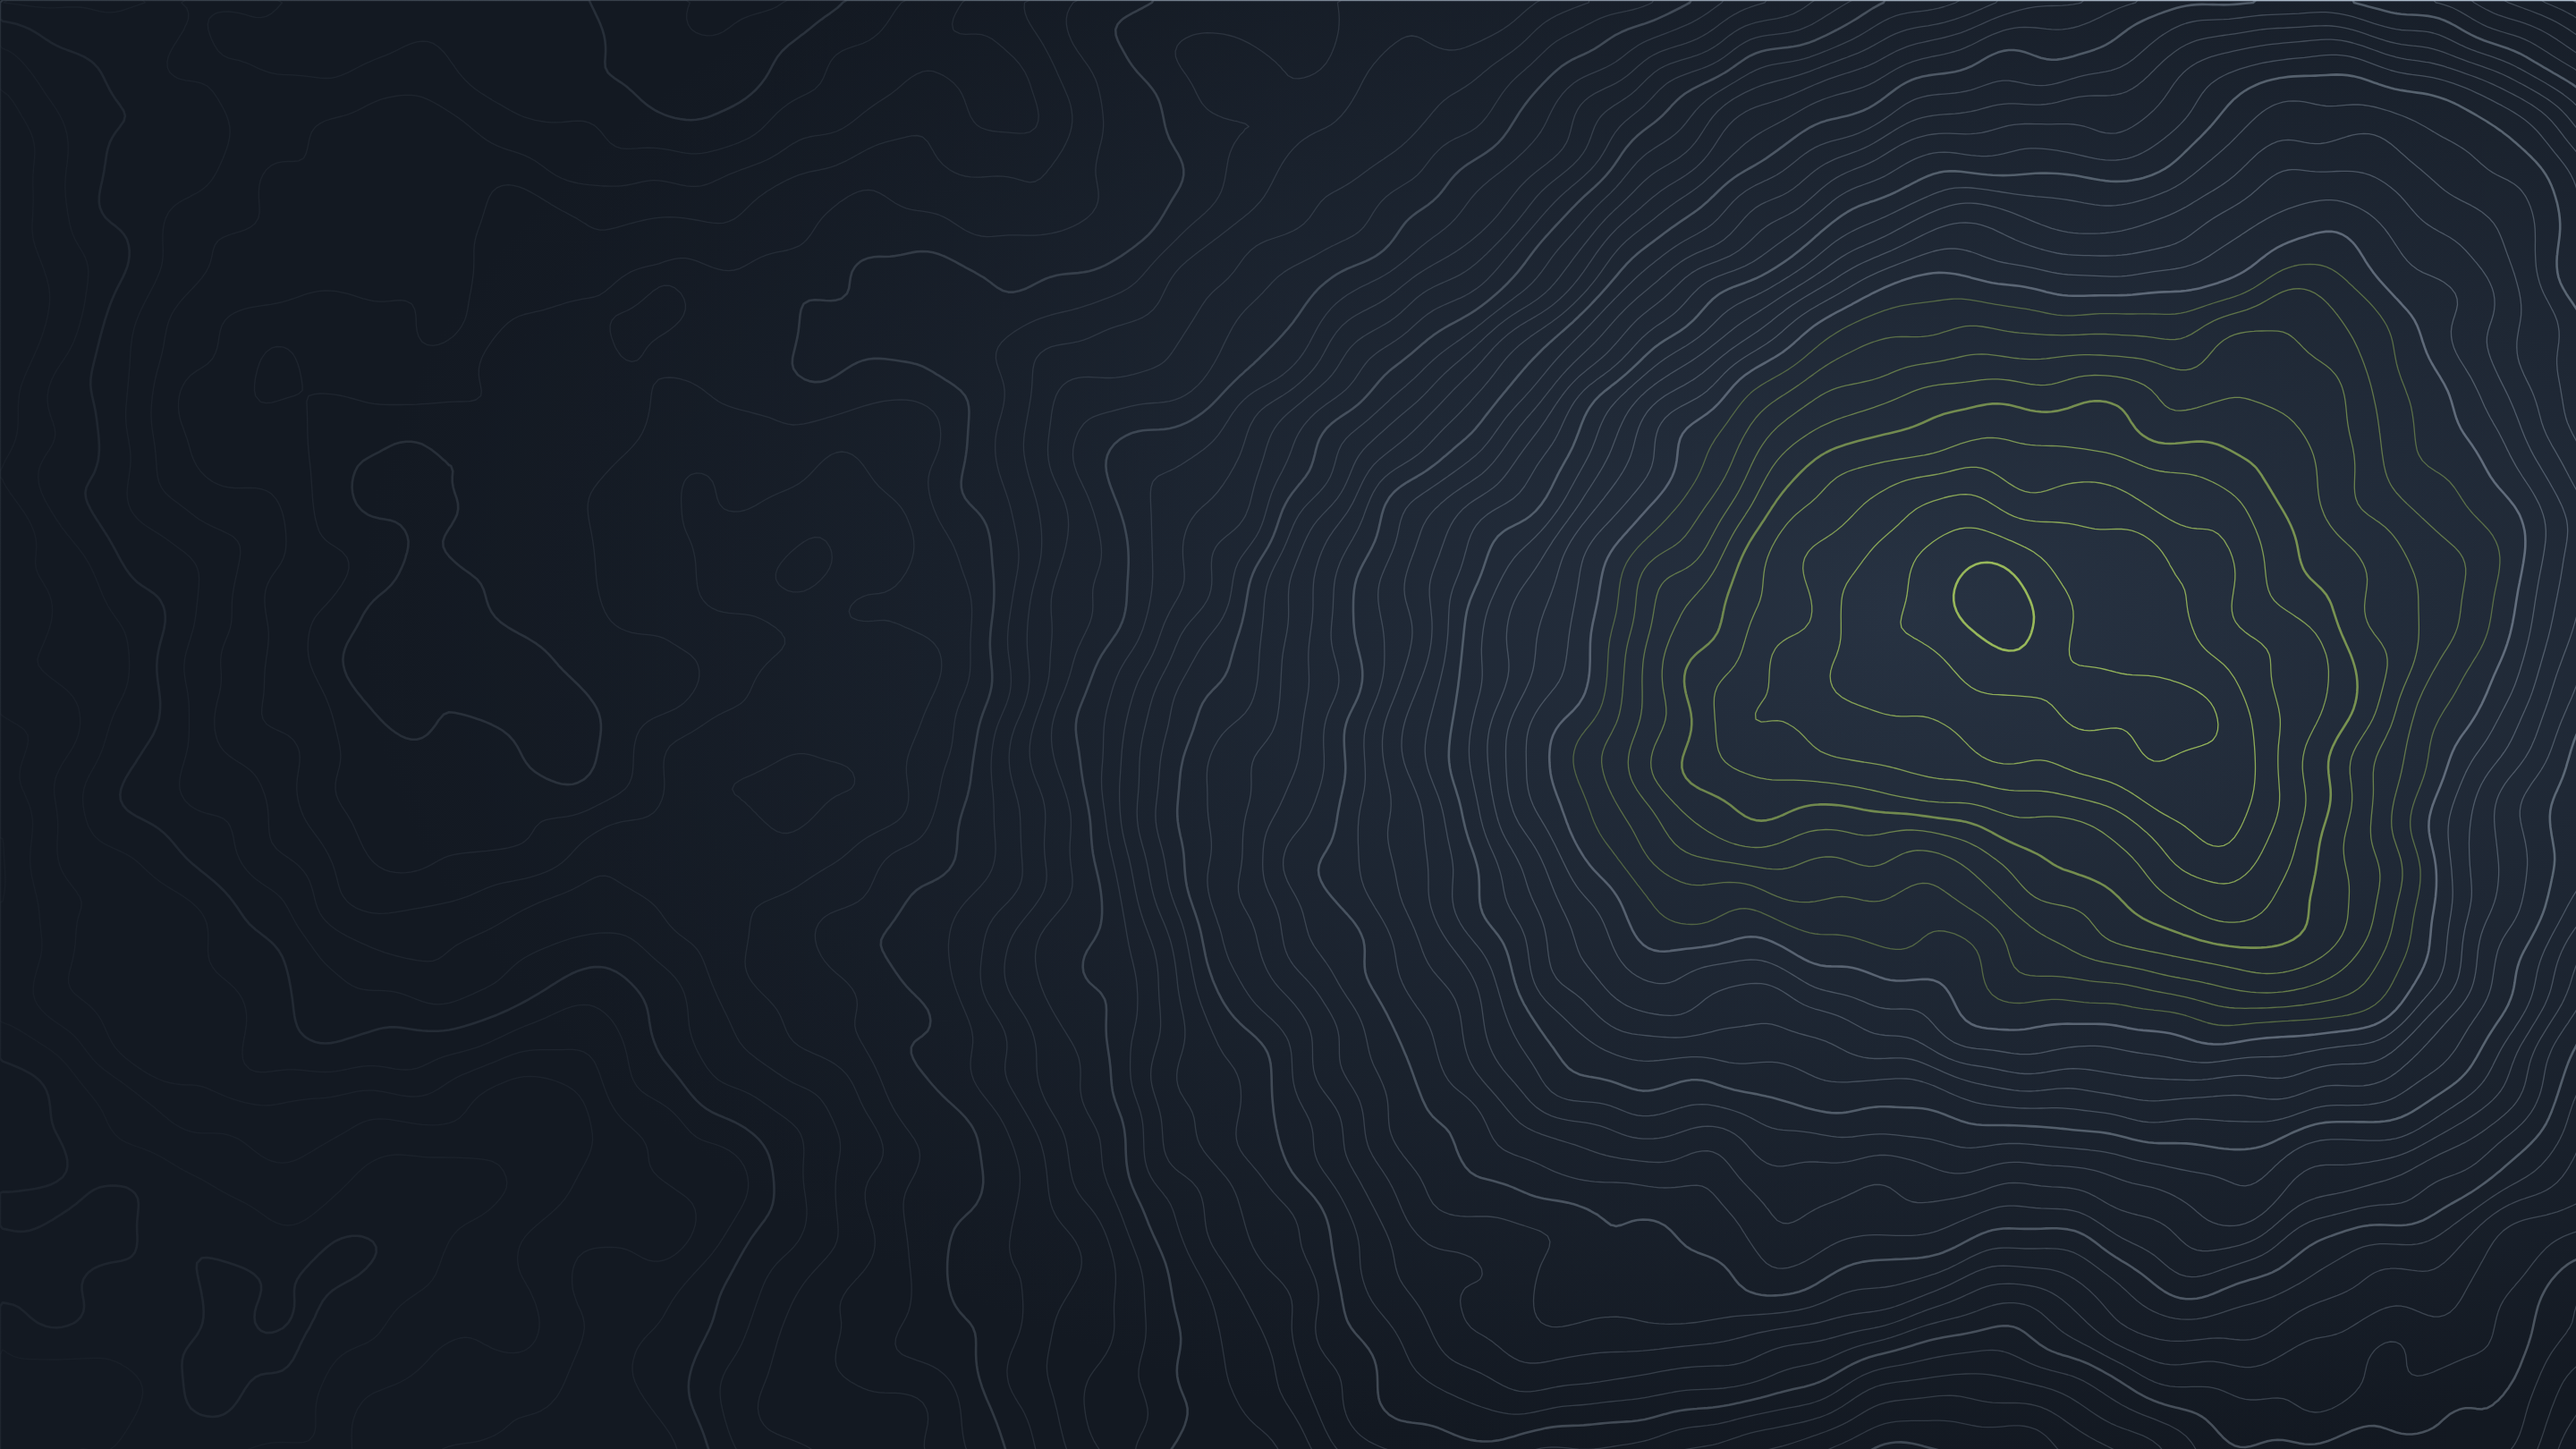
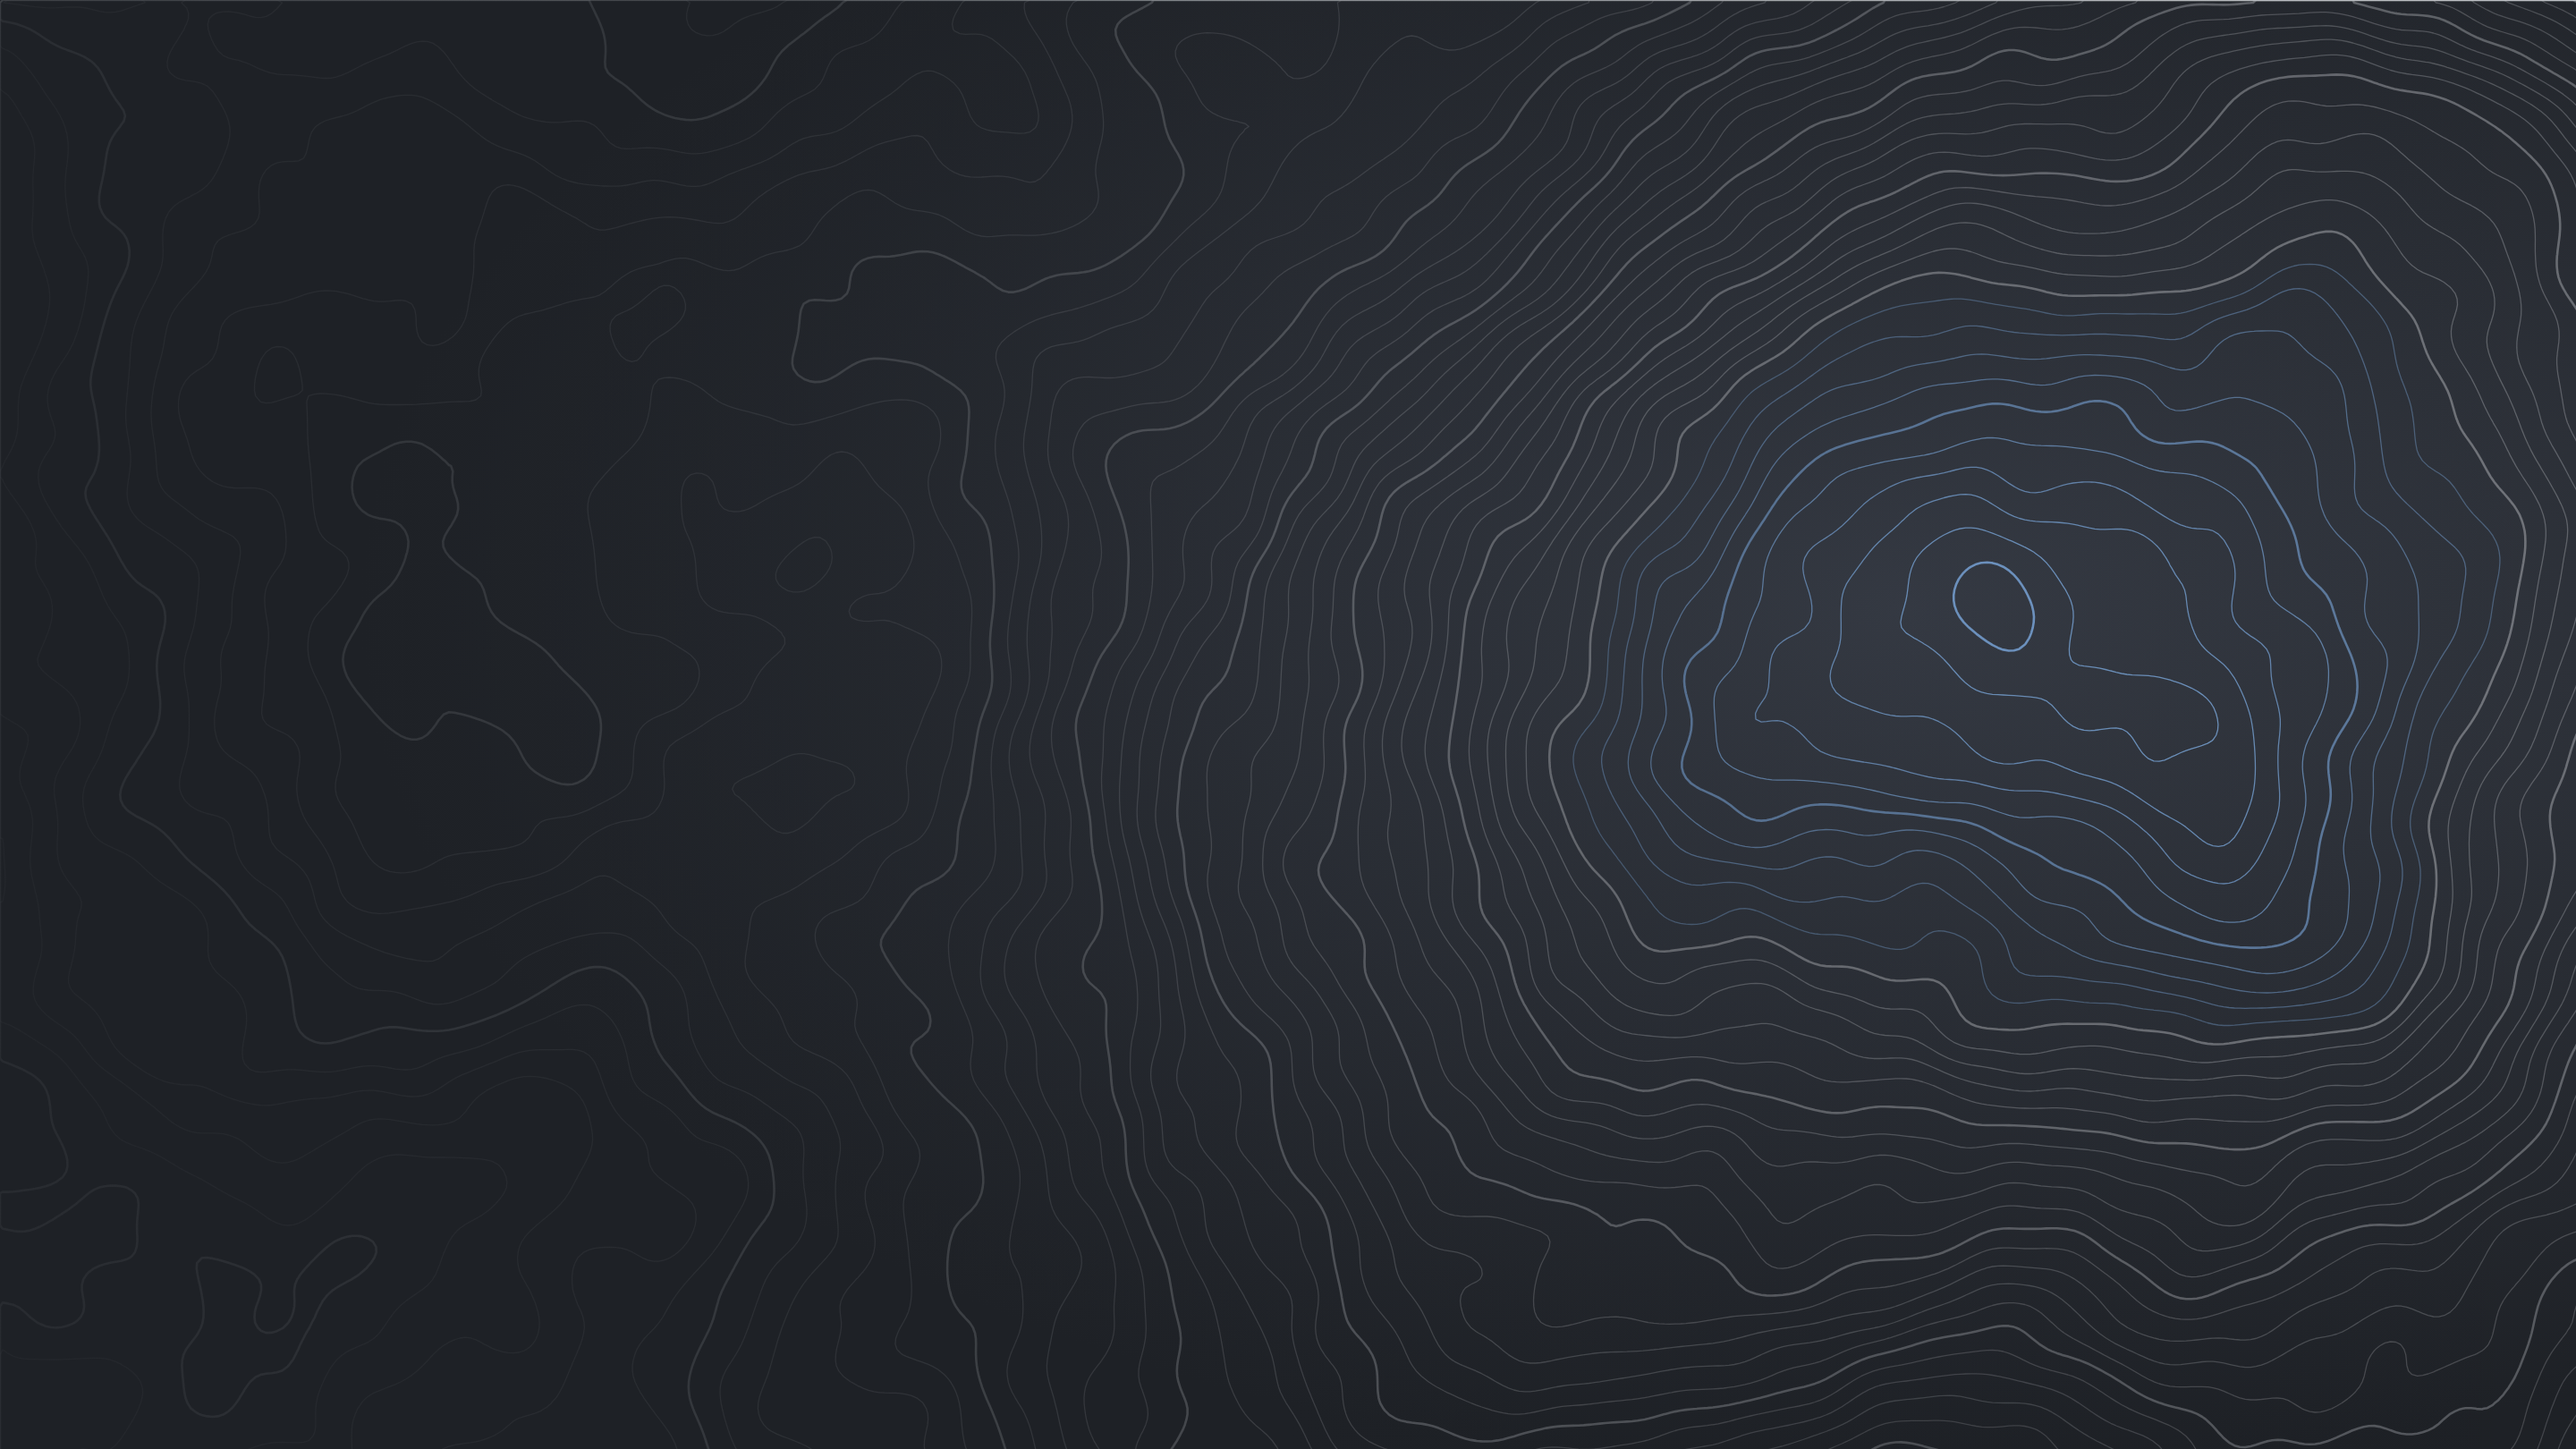
Farbwelt Graphit + Himmelblau, neuer Slogan
- Graphit-Hintergrund mit himmelblauem Akzent, weisse Bereiche bleiben
- Hero-Grafik, Logo-Akzent, Favicon (v3) und Vorschaubild (v3) angepasst
- Über mich: «Agentur-Qualität. Ohne Agentur-Preise.»
- Hintergrundfarbe als Variable (--bg-rgb)

Claude-Session: https://claude.ai/code/session_01KdWoZ6Kj5ekctyyHU22p6b

diff --git a/src/styles/global.css b/src/styles/global.css
@@ -8,27 +8,29 @@
 /* ---------- Design-Tokens ---------- */
 :root {
   /* Farben (Kontraste WCAG AA geprüft, siehe README) */
-  --color-bg: #131922;
-  --color-bg-raised: #19202a;
-  --color-bg-elev: #1f2733;
-  --color-line: #2b3441;
-  --color-line-strong: #3f4a59;
+  --color-bg: #1e2126;
+  --color-bg-raised: #25292f;
+  --color-bg-elev: #2d3139;
+  --color-line: #3a3f48;
+  --color-line-strong: #4e545f;
+  /* Hintergrund als RGB-Werte für transparente Varianten */
+  --bg-rgb: 30 33 38;
   --color-text: #eef1f4;
   --color-text-soft: #b0bac6;
   --color-text-faint: #8d98a6;
-  --color-accent: #c8f169;
+  --color-accent: #86b8f2;
   /* Akzent als RGB-Werte für transparente Varianten: rgb(var(--accent-rgb) / 0.2) */
-  --accent-rgb: 200 241 105;
-  --color-accent-hover: #d8fa8b;
-  --color-on-accent: #131922;
+  --accent-rgb: 134 184 242;
+  --color-accent-hover: #a5cbf7;
+  --color-on-accent: #1e2126;
   --color-error: #ff8a80;
   /* Helle Flächen (sparsam eingesetzt) */
-  --color-paper: #f3f4f0;
+  --color-paper: #f4f3ef;
   --color-paper-raised: #ffffff;
-  --color-ink: #131922;
+  --color-ink: #1e2126;
   --color-ink-soft: #4a5562;
   --color-paper-line: #dadcd4;
-  --color-accent-ink: #3d5a00;
+  --color-accent-ink: #1f5596;
 
   /* Typografie (--font-sans / --font-mono werden von Astro Fonts gesetzt) */
   --text-2xs: 0.75rem;
@@ -414,8 +416,8 @@ main:focus {
 }
 
 .btn--dark:hover {
-  --btn-bg: #20262e;
-  --btn-border: #20262e;
+  --btn-bg: #2d3139;
+  --btn-border: #2d3139;
 }
 
 .btn--lg {

diff --git a/src/lib/schema.ts b/src/lib/schema.ts
@@ -31,7 +31,7 @@ export function businessSchema(siteUrl: URL | undefined) {
     description: site.description,
     url: siteUrl?.toString(),
     knowsAbout: ['Webdesign', 'Website-Erstellung', 'Suchmaschinenoptimierung (SEO)', 'Local SEO', 'Hosting'],
-    logo: siteUrl ? new URL('/apple-touch-icon-v2.png', siteUrl).toString() : undefined,
+    logo: siteUrl ? new URL('/apple-touch-icon-v3.png', siteUrl).toString() : undefined,
     image: siteUrl ? new URL(site.defaultOgImage, siteUrl).toString() : undefined,
     founder: { '@type': 'Person', name: site.owner },
     telephone: contact.phone,

diff --git a/src/config/site.ts b/src/config/site.ts
@@ -26,7 +26,7 @@ export const site = {
   /** false = echte Website: indexierbar, LocalBusiness-Schema aktiv, keine Demo-Hinweise. */
   isDemo: false,
   /** Neuer Dateiname bei jeder Änderung des Vorschaubilds (Zwischenspeicher von WhatsApp & Co.). */
-  defaultOgImage: '/og-webagentur-wuethrich-v2.jpg',
+  defaultOgImage: '/og-webagentur-wuethrich-v3.jpg',
   contact: {
     /**
      * Öffentliche E-Mail-Adresse, zugleich Empfänger des Kontaktformulars.
